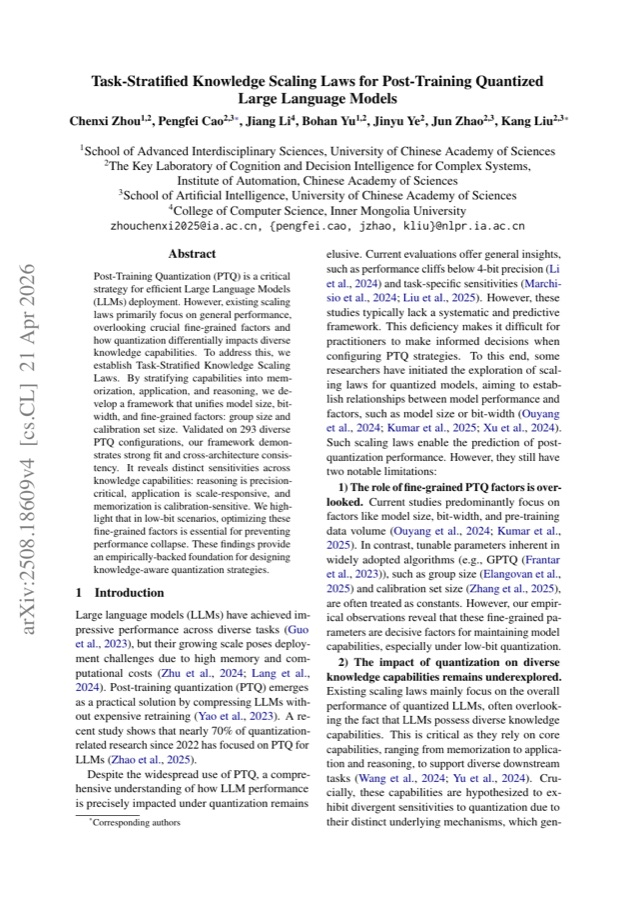
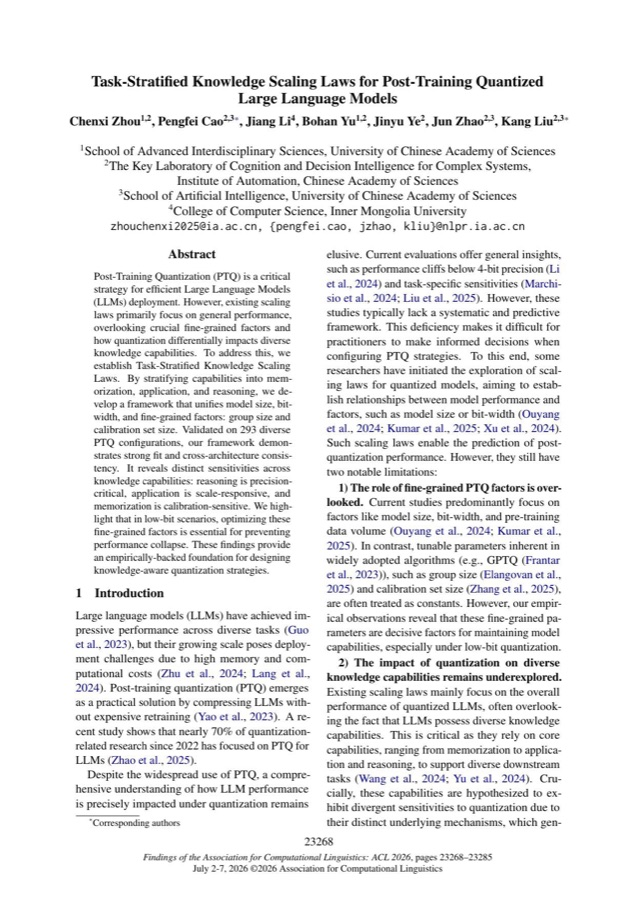
Update publications and homepage activities

diff --git a/_sass/_layout.scss b/_sass/_layout.scss
@@ -53,6 +53,62 @@ body.sticky-bottom-footer {
     margin-bottom: 1rem;
   }
 
+  .home-entry-list,
+  .academic-activities-list {
+    list-style: none;
+    padding-left: 0;
+  }
+
+  .home-entry-with-icons {
+    display: flex;
+    align-items: flex-start;
+    gap: 0.55rem;
+    margin-bottom: 0.75rem;
+  }
+
+  .home-entry-icon-slot {
+    display: inline-flex;
+    flex: 0 0 2.05rem;
+    flex-wrap: wrap;
+    gap: 0.22rem;
+    min-width: 2.05rem;
+    padding-top: 0.08rem;
+
+    img,
+    .home-entry-icon-mark {
+      width: 1.35rem;
+      height: 1.35rem;
+      border: 1px solid var(--global-divider-color);
+      border-radius: 50%;
+      background: #fff;
+    }
+
+    img {
+      object-fit: contain;
+      padding: 0.12rem;
+    }
+
+    .home-entry-icon-mark {
+      display: inline-flex;
+      align-items: center;
+      justify-content: center;
+      color: var(--global-theme-color);
+      font-size: 0.55rem;
+      font-weight: 700;
+      line-height: 1;
+    }
+  }
+
+  .home-entry-copy {
+    min-width: 0;
+  }
+
+  .academic-activities-list {
+    li {
+      margin-bottom: 0.55rem;
+    }
+  }
+
   .internship-venue-tag {
     display: inline-block;
     background-color: var(--global-theme-color);

diff --git a/_pages/about.md b/_pages/about.md
@@ -16,6 +16,7 @@ selected_papers: true # includes a list of papers marked as "selected={true}"
 educations: true
 collaborative_papers: true
 internships: true
+academic_activities: true
 honors_awards: true
 social: false # hide social icons at the bottom of the page
 
